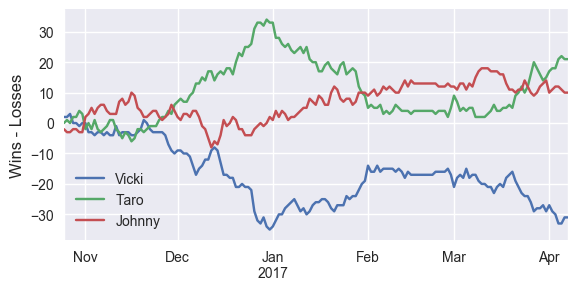
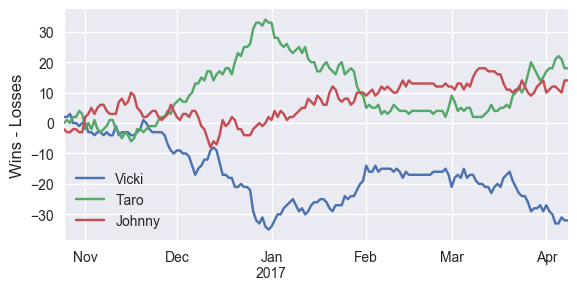
update 4/8

diff --git a/index.html b/index.html
@@ -35,7 +35,7 @@
 <a id="the-bet-is-on" class="anchor" href="#the-bet-is-on" aria-hidden="true"><span aria-hidden="true" class="octicon octicon-link"></span></a>The bet is on.</h1>
 
 <h1>
-<a id="current-winner-of-2016-17-season" class="anchor" href="#current-winner-of-2016-17-season" aria-hidden="true"><span aria-hidden="true" class="octicon octicon-link"></span></a>Current winner of 2016-17 Season (as of 4/7/2017):</h1>
+<a id="current-winner-of-2016-17-season" class="anchor" href="#current-winner-of-2016-17-season" aria-hidden="true"><span aria-hidden="true" class="octicon octicon-link"></span></a>Current winner of 2016-17 Season (as of 4/8/2017):</h1>
 
 <h2>
 <a id="none" class="anchor" href="#none" aria-hidden="true"><span aria-hidden="true" class="octicon octicon-link"></span></a><strong>Taro</strong>
@@ -44,23 +44,23 @@
 <h2>
 <a id="johnny" class="anchor" href="Johnny.html" aria-hidden="true"><span aria-hidden="true" class="octicon octicon-link"></span>Johnny</a></h2>
 
-<p>Wins: 397<br>
-Losses: 387<br>
-Remaining wins available: 30</p>
+<p>Wins: 402<br>
+Losses: 388<br>
+Remaining wins available: 25</p>
 
 <h2>
 <a id="taro" class="anchor" href="Taro.html" aria-hidden="true"><span aria-hidden="true" class="octicon octicon-link"></span>Taro</a></h2>
 
-<p>Wins: 403<br>
-Losses: 382<br>
-Remaining wins available: 33</p>
+<p>Wins: 405<br>
+Losses: 387<br>
+Remaining wins available: 26</p>
 
 <h2>
 <a id="vicki" class="anchor" href="Vicki.html" aria-hidden="true"><span aria-hidden="true" class="octicon octicon-link"></span>Vicki</a></h2>
 
-<p>Wins: 378<br>
-Losses: 409<br>
-Remaining wins available: 29</p>
+<p>Wins: 380<br>
+Losses: 412<br>
+Remaining wins available: 24</p>
 
 <img src='pythoncode/win_percent.png' alt='Winning Percentage Over Time'>
 <h1>

diff --git a/Taro.html b/Taro.html
@@ -35,9 +35,9 @@
 
 <h2>Taro</h2>
 
-<p>Wins: 403<br>
-Losses: 382<br>
-Remaining wins available: 33</p>
+<p>Wins: 405<br>
+Losses: 387<br>
+Remaining wins available: 26</p>
 
 <h2> Current teams </h2>
 <table border="1">
@@ -50,8 +50,8 @@ Remaining wins available: 33</p>
 <tr>
 <td>Knicks</td>
 <td>30</td>
-<td>49</td>
-<td>3</td>
+<td>50</td>
+<td>2</td>
 </tr>
 <tr>
 <td>Nets</td>
@@ -62,20 +62,20 @@ Remaining wins available: 33</p>
 <tr>
 <td>Thunder</td>
 <td>45</td>
-<td>33</td>
-<td>4</td>
-</tr>
-<tr>
-<td>Raptors</td>
-<td>48</td>
-<td>31</td>
+<td>34</td>
 <td>3</td>
 </tr>
 <tr>
+<td>Raptors</td>
+<td>49</td>
+<td>31</td>
+<td>2</td>
+</tr>
+<tr>
 <td>Spurs</td>
-<td>60</td>
+<td>61</td>
 <td>18</td>
-<td>4</td>
+<td>3</td>
 </tr>
 <tr>
 <td>Hornets</td>
@@ -86,8 +86,8 @@ Remaining wins available: 33</p>
 <tr>
 <td>Rockets</td>
 <td>53</td>
-<td>25</td>
-<td>4</td>
+<td>26</td>
+<td>3</td>
 </tr>
 <tr>
 <td>Wizards</td>
@@ -98,14 +98,14 @@ Remaining wins available: 33</p>
 <tr>
 <td>Kings</td>
 <td>31</td>
-<td>47</td>
-<td>4</td>
+<td>48</td>
+<td>3</td>
 </tr>
 <tr>
 <td>Pelicans</td>
 <td>33</td>
-<td>45</td>
-<td>4</td>
+<td>46</td>
+<td>3</td>
 </tr>
 </table>
 

diff --git a/Vicki.html b/Vicki.html
@@ -35,9 +35,9 @@
 
 <h2>Vicki</h2>
 
-<p>Wins: 378<br>
-Losses: 409<br>
-Remaining wins available: 29</p>
+<p>Wins: 380<br>
+Losses: 412<br>
+Remaining wins available: 24</p>
 
 <h2> Current teams </h2>
 <table border="1">
@@ -50,14 +50,14 @@ Remaining wins available: 29</p>
 <tr>
 <td>Heat</td>
 <td>38</td>
-<td>40</td>
-<td>4</td>
+<td>41</td>
+<td>3</td>
 </tr>
 <tr>
 <td>Mavericks</td>
 <td>32</td>
-<td>46</td>
-<td>4</td>
+<td>47</td>
+<td>3</td>
 </tr>
 <tr>
 <td>Trail Blazers</td>
@@ -68,8 +68,8 @@ Remaining wins available: 29</p>
 <tr>
 <td>Cavaliers</td>
 <td>51</td>
-<td>27</td>
-<td>4</td>
+<td>28</td>
+<td>3</td>
 </tr>
 <tr>
 <td>Bulls</td>
@@ -85,9 +85,9 @@ Remaining wins available: 29</p>
 </tr>
 <tr>
 <td>Grizzlies</td>
-<td>42</td>
+<td>43</td>
 <td>37</td>
-<td>3</td>
+<td>2</td>
 </tr>
 <tr>
 <td>Clippers</td>
@@ -97,9 +97,9 @@ Remaining wins available: 29</p>
 </tr>
 <tr>
 <td>Suns</td>
-<td>22</td>
+<td>23</td>
 <td>57</td>
-<td>3</td>
+<td>2</td>
 </tr>
 <tr>
 <td>Pacers</td>

diff --git a/Johnny.html b/Johnny.html
@@ -35,9 +35,9 @@
 
 <h2>Johnny</h2>
 
-<p>Wins: 397<br>
-Losses: 387<br>
-Remaining wins available: 30</p>
+<p>Wins: 402<br>
+Losses: 388<br>
+Remaining wins available: 25</p>
 
 <h2> Current teams </h2>
 <table border="1">
@@ -62,14 +62,14 @@ Remaining wins available: 30</p>
 <tr>
 <td>Timberwolves</td>
 <td>31</td>
-<td>47</td>
-<td>4</td>
+<td>48</td>
+<td>3</td>
 </tr>
 <tr>
 <td>Hawks</td>
-<td>40</td>
+<td>41</td>
 <td>38</td>
-<td>4</td>
+<td>3</td>
 </tr>
 <tr>
 <td>Celtics</td>
@@ -79,27 +79,27 @@ Remaining wins available: 30</p>
 </tr>
 <tr>
 <td>Pistons</td>
-<td>35</td>
+<td>36</td>
 <td>43</td>
-<td>4</td>
+<td>3</td>
 </tr>
 <tr>
 <td>Nuggets</td>
-<td>37</td>
+<td>38</td>
 <td>41</td>
-<td>4</td>
+<td>3</td>
 </tr>
 <tr>
 <td>Jazz</td>
-<td>48</td>
+<td>49</td>
 <td>30</td>
-<td>4</td>
+<td>3</td>
 </tr>
 <tr>
 <td>Lakers</td>
-<td>23</td>
+<td>24</td>
 <td>55</td>
-<td>4</td>
+<td>3</td>
 </tr>
 <tr>
 <td>Magic</td>
